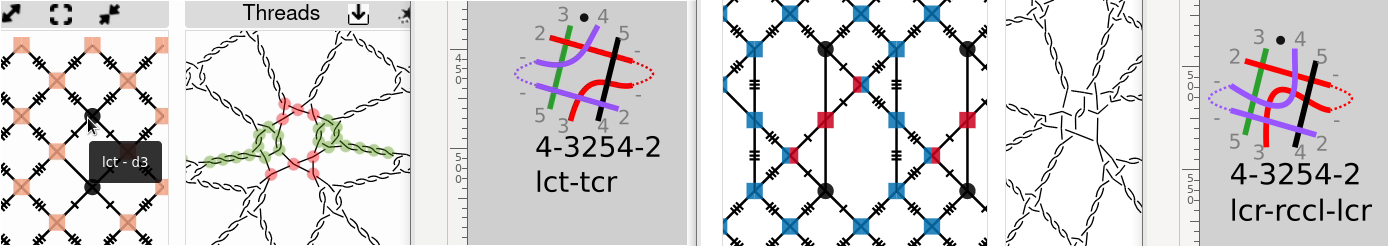
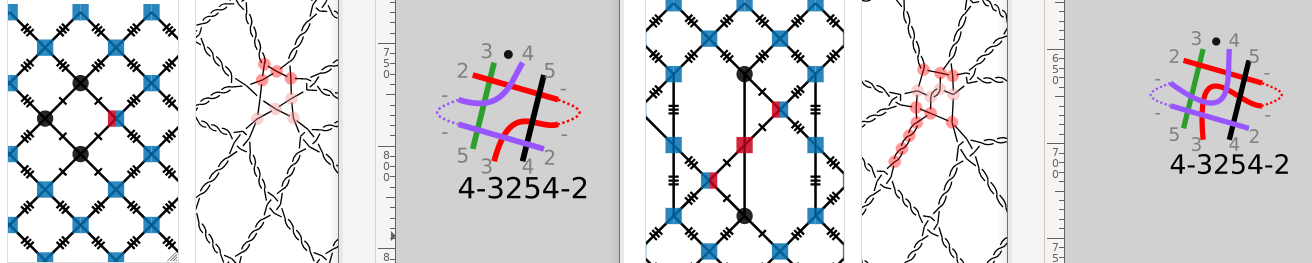
fixed left bouncing recipe

diff --git a/docs/counting-snow/index.md b/docs/counting-snow/index.md
@@ -315,21 +315,21 @@ PLease don't rely on twist marks in the pair diagrams, they are buggy.
 
 ### 6 pairs with 2 bouncing pairs
 
-
-The recipe for the [left example](/GroundForge/stitches.html?patchWidth=10&patchHeight=10&tile=-5-5,5-5-,-5-5,5-5-,-5-5,5-5-&shiftColsSW=0&shiftRowsSW=6&shiftColsSE=4&shiftRowsSE=6&d1=ctc&b1=ctc&c2=lct&a2=ctc&d3=ctc&b3=ctc&c4=rct&a4=ctc&d5=ctc&b5=ctc&c6=ctc&a6=ctc)
-in the screenshot below requires to think the green stitches outward and the red ones together. 
-This becomes awkward when following the link to "_thread diagram as pair diagram_".
-When sampling you might add twists between red and green, but GroundForge would only push the reds away from one another.
-The recipe for the [right example](/GroundForge/stitches.html?patchWidth=10&patchHeight=10&tile=-5-5,5-5-,-5-5,5-5-,-5-5,5-5-,-5-5,5-5-&shiftColsSW=0&shiftRowsSW=8&shiftColsSE=4&shiftRowsSE=8&d1=ctctttt&b1=ctctttt&c2=ctctttt&a2=ctctttt&d3=lcr&b3=ctctttt&c4=-&a4=crcrrrr&d5=rccl&b5=ctctttt&c6=clcllll&a6=-&d7=lcrllll&b7=ctctttt&c8=ctctttt&a8=ctctttt) 
-looks much better. This leads to the conclusion we have to dismiss the left variant 
-(like we had to dismiss options for 4 pairs above), it is not a coherent crossing.
+Recipes for the [left example](GroundForge/stitches.html?patchWidth=10&patchHeight=10&tile=-5-5,5-5-,-5-5,5-5-,-5-5,5-5-&shiftColsSW=0&shiftRowsSW=6&shiftColsSE=4&shiftRowsSE=6&d1=ctctttt&b1=ctctttt&c2=ctctttt&a2=ctctttt&d3=lct&b3=ctctttt&c4=ctlll&a4=crcrrrr&d5=rct&b5=ctctttt&c6=ctctttt&a6=ctctttt)
+and the [right example](/GroundForge/stitches.html?patchWidth=10&patchHeight=10&tile=-5-5,5-5-,-5-5,5-5-,-5-5,5-5-,-5-5,5-5-&shiftColsSW=0&shiftRowsSW=8&shiftColsSE=4&shiftRowsSE=8&d1=ctctttt&b1=ctctttt&c2=ctctttt&a2=ctctttt&d3=lcr&b3=ctctttt&c4=-&a4=crcrrrr&d5=rccl&b5=ctctttt&c6=clcllll&a6=-&d7=lcrllll&b7=ctctttt&c8=ctctttt&a8=ctctttt).
+Follow the link to "_thread diagram as pair diagram_" to select your stitches for the snowflake.
 
 ![](blobs-2-bouncing.png)
+
+In both cases the highlighted stitches have one or more twists beyond the desired diagrams,
+in the left case a twist is not highlighted that is part of the desired diagram.  
+The crucial parts are two or three stitches in a column, those are highlighted in the thread diagrams.
+Two stitches on each side of that column also need attention for the finishing touch.
 
 ### 4 pairs
 
 The process starts at another page than for six pairs.
-For the two examples below: 
+For the two examples below:
 [ctcttctc](/GroundForge/stitches.html?patchWidth=7&patchHeight=9&tile=5-&shiftColsSW=-1&shiftRowsSW=1&shiftColsSE=1&shiftRowsSE=1&a1=ctcttctc)
 and [ctctctc](/GroundForge/stitches.html?patchWidth=7&patchHeight=9&tile=5-&shiftColsSW=-1&shiftRowsSW=1&shiftColsSE=1&shiftRowsSE=1&a1=ctctctc).
 These examples are chosen because one has two twists were the other has just one.
